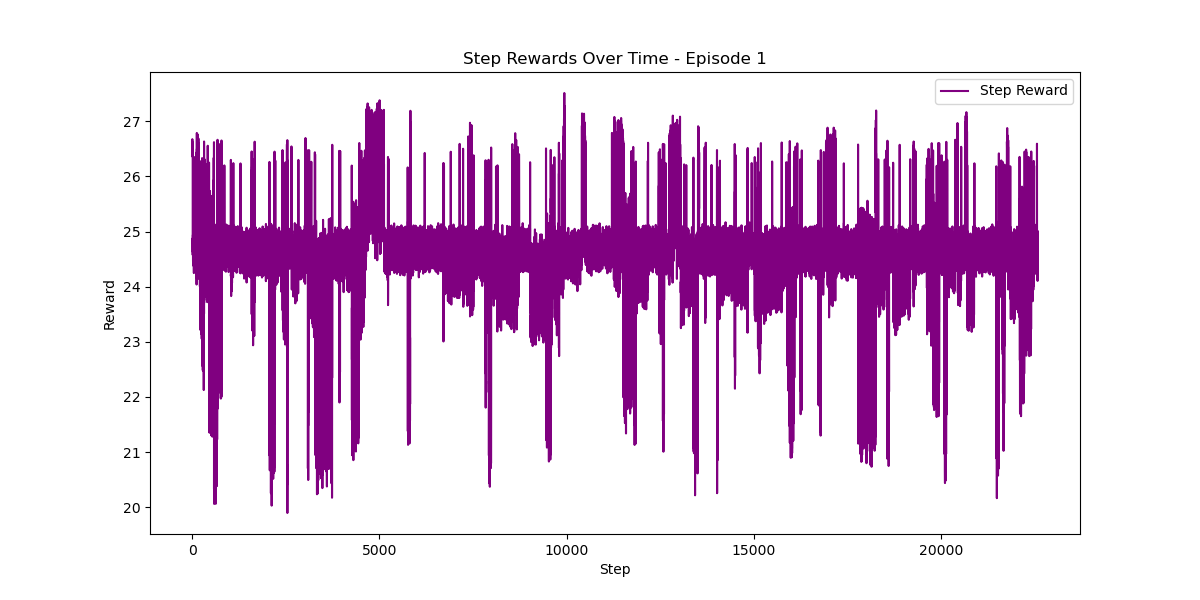
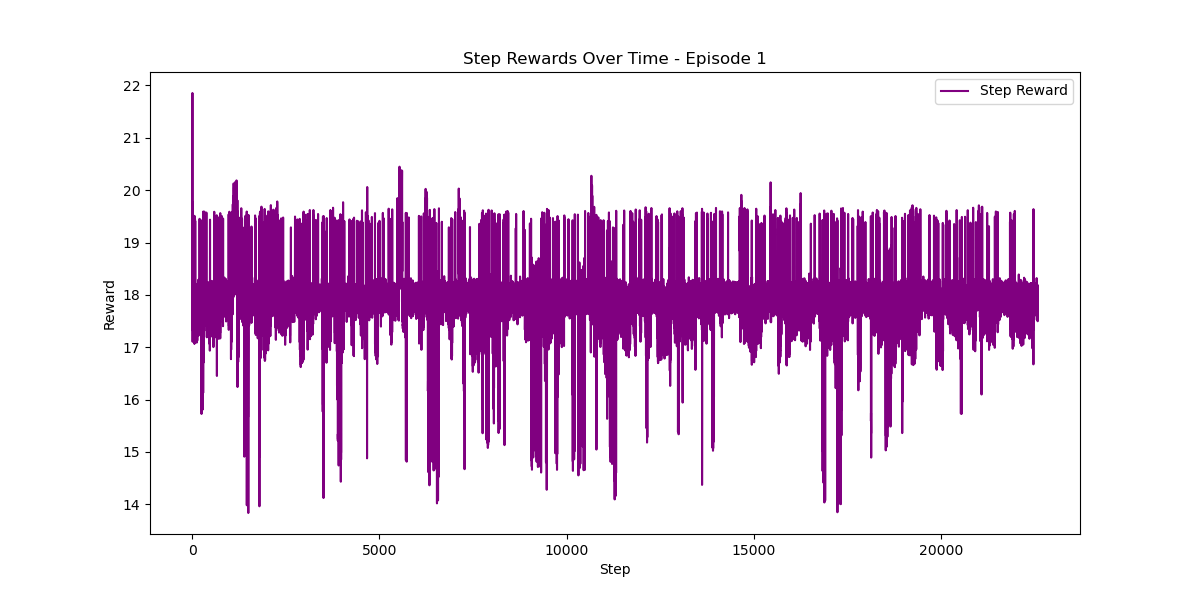
Further adjustments to algorithm

diff --git a/environment/env_continuous.py b/environment/env_continuous.py
@@ -9,7 +9,7 @@ class ContinuousMarketEnv(BaseMarketEnv):
     def __init__(self, data, reward_type='default'):
         super(ContinuousMarketEnv, self).__init__(data)
         # Adjust action space to include trade size (units) in addition to price adjustments
-        self.action_space = spaces.Box(low=np.array([-1, -50]), high=np.array([1, 50]), dtype=np.float32)
+        self.action_space = spaces.Box(low=np.array([-1, -10]), high=np.array([1, 10]), dtype=np.float32)
         self.inventory = 0 # Inventory for the agent
         self.cash = 5000 # Cash for the agent
         self.trades = [] # List to store executed trades
@@ -53,6 +53,7 @@ class ContinuousMarketEnv(BaseMarketEnv):
         # Limit trade size based on available liquidity 
         max_trade_size = min(ask_size, bid_size)
         trade_size = np.clip(trade_size * max_trade_size, -ask_size, bid_size)
+        #trade_size = np.clip(trade_size * max_trade_size * (self.cash / (self.cash + abs(self.inventory))), -ask_size, bid_size)
 
         # Enhanced action-to-order mapping logic
         bid_adjustment = bid_adjustment * spread * 1.5
@@ -98,22 +99,14 @@ class ContinuousMarketEnv(BaseMarketEnv):
         # Calculate PnL based on current cash and inventory value
         pnl = self.cash + self.inventory * self.data.iloc[self.current_step]['Bid Price 0']
         
-        
-        # New metrics calculation
-        implementation_shortfall = self.implementation_shortfall()
-        order_flow_imbalance = self.order_flow_imbalance()
-        rsi = self.rsi()
-        mean_average_pricing = self.mean_average_pricing()
-
-
-        # New metrics calculation
-        implementation_shortfall = self.implementation_shortfall()
-        order_flow_imbalance = self.order_flow_imbalance()
-        rsi = self.rsi()
-        mean_average_pricing = self.mean_average_pricing()
+        # Smoothing PnL changes over the last few steps (to avoid sharp fluctuations)
+        if len(self.past_pnls) > 10:
+            smoothed_pnl = np.mean(self.past_pnls[-10:])
+        else:
+            smoothed_pnl = pnl
 
         if self.reward_type == 'default':
-            reward = self._default_reward(pnl, action_taken, midpoint, spread, vwap, osi, rv)
+            reward = self._default_reward(smoothed_pnl, action_taken, midpoint, spread, vwap, osi, rv)
         elif self.reward_type == 'asymmetrical':
             reward = self._asymmetrical_reward(pnl, action_taken)
         elif self.reward_type == 'realized_pnl':
@@ -140,7 +133,6 @@ class ContinuousMarketEnv(BaseMarketEnv):
 
         # Execution quality reward/penalty based on how close the executed price is to the midpoint
         execution_quality_reward = 0
-        trade_size = 0
         if self.trades:
             # Get the last trade details
             last_trade = self.trades[-1]
@@ -164,8 +156,20 @@ class ContinuousMarketEnv(BaseMarketEnv):
         # Add PnL as a small baseline reward
         pnl_baseline_reward = pnl * 0.005  # Reduced to lower volatility
 
-        # PnL change reward based on the difference from the previous PnL
-        pnl_change_reward = (pnl - self.past_pnls[-1]) * 0.01 if len(self.past_pnls) > 1 else 0
+        # Smoothed PnL change reward (reduces volatility)
+        if len(self.past_pnls) > 1:
+            pnl_change_reward = (pnl - self.past_pnls[-1]) * 0.005  # Smaller impact to smooth out fluctuations
+        else:
+            pnl_change_reward = 0
+
+        # Sharpe Ratio Penalty (Risk-Adjusted Reward)
+        sharpe_ratio = self.calculate_sharpe_ratio()
+        if sharpe_ratio < 0.5:
+            reward_adjustment = 0.9
+        elif sharpe_ratio > 1:
+            reward_adjustment = 1.1
+        else:
+            reward_adjustment = 1.0
 
         # Total reward is the sum of the components
         reward = (
@@ -186,12 +190,24 @@ class ContinuousMarketEnv(BaseMarketEnv):
             print(f"Execution Quality Reward: {execution_quality_reward}")
             print(f"Spread Capture Reward: {spread_capture_reward}")
             print(f"PnL Change Reward: {pnl_change_reward}")
-            print(f"OSI Reward: {osi_reward}")
             print(f"PnL Baseline Reward: {pnl_baseline_reward}")
             print(f"Total Step Reward: {reward}")
         """
+
+        reward *= reward_adjustment  # Adjust reward based on Sharpe Ratio
         
         return reward
+    
+    # The calculate_sharpe_ratio method calculates the Sharpe Ratio as a risk-adjusted performance metric.
+    def calculate_sharpe_ratio(self):
+        # Calculate Sharpe Ratio as a risk-adjusted performance metric
+        returns = np.diff(self.past_pnls)  # Daily returns
+        if len(returns) < 2:
+            return 0
+        avg_return = np.mean(returns)
+        return_volatility = np.std(returns)
+        sharpe_ratio = avg_return / return_volatility if return_volatility != 0 else 0
+        return sharpe_ratio
 
     # The _asymmetrical_reward method calculates the reward based on the Profit and Loss (PnL) and the action taken.
     def _asymmetrical_reward(self, pnl, action_taken):

diff --git a/network/network.py b/network/network.py
@@ -5,29 +5,38 @@ from keras import layers, models, regularizers
 # The create_cnn_policy_network function creates a convolutional neural network (CNN) policy network.
 # This will determine the actions to take based on the current state.
 def create_cnn_attention_policy_network(input_shape):
+    l2_reg = regularizers.l2(0.001)  # Set L2 regularization value (can be tuned)
+    
     model = models.Sequential()
-    model.add(layers.Conv1D(64, kernel_size=3, activation='relu', input_shape=input_shape, kernel_initializer='he_uniform'))
+    model.add(layers.Conv1D(64, kernel_size=3, input_shape=input_shape, kernel_initializer='he_uniform'))
+    model.add(layers.Activation(tf.nn.swish))  # Swish activation
     model.add(layers.MaxPooling1D(pool_size=2))
-    model.add(layers.Conv1D(128, kernel_size=3, activation='relu', kernel_initializer='he_uniform'))
+    model.add(layers.Conv1D(128, kernel_size=3, kernel_initializer='he_uniform'))
+    model.add(layers.Activation(tf.nn.swish))  # Swish activation
     model.add(layers.MaxPooling1D(pool_size=2))
     model.add(layers.Flatten())
-    model.add(layers.Dense(256, activation='relu', kernel_initializer='he_uniform'))
-    model.add(layers.Dense(128, activation='relu', kernel_initializer='he_uniform'))
-    model.add(layers.Dense(2, activation='tanh', kernel_initializer='he_uniform'))  # Output layer for actions
+    model.add(layers.Dense(256, activation='swish', kernel_initializer='he_uniform', kernel_regularizer=l2_reg))
+    model.add(layers.Dense(128, activation='swish', kernel_initializer='he_uniform', kernel_regularizer=l2_reg))
+    model.add(layers.Dense(2, activation='tanh', kernel_initializer='he_uniform'))  # Output layer for actions (no regularization needed)
     return model
+
 
 # The create_cnn_value_network function creates a CNN value network.
 # This will estimate the value of the current state.
 def create_cnn_attention_value_network(input_shape):
+    l2_reg = regularizers.l2(0.001)  # Set L2 regularization value (can be tuned)
+    
     model = models.Sequential()
-    model.add(layers.Conv1D(64, kernel_size=3, activation='relu', input_shape=input_shape))
+    model.add(layers.Conv1D(64, kernel_size=3, input_shape=input_shape, kernel_initializer='he_normal'))
+    model.add(layers.Activation(tf.nn.swish))  # Swish activation
     model.add(layers.MaxPooling1D(pool_size=2))
-    model.add(layers.Conv1D(128, kernel_size=3, activation='relu'))
+    model.add(layers.Conv1D(128, kernel_size=3, kernel_initializer='he_normal'))
+    model.add(layers.Activation(tf.nn.swish))  # Swish activation
     model.add(layers.MaxPooling1D(pool_size=2))
     model.add(layers.Flatten())
-    model.add(layers.Dense(256, activation='relu', kernel_initializer='he_normal'))
-    model.add(layers.Dense(128, activation='relu', kernel_initializer='he_normal'))
-    model.add(layers.Dense(1, activation='linear'))  # Single output for value estimation
+    model.add(layers.Dense(256, activation='swish', kernel_initializer='he_normal', kernel_regularizer=l2_reg))
+    model.add(layers.Dense(128, activation='swish', kernel_initializer='he_normal', kernel_regularizer=l2_reg))
+    model.add(layers.Dense(1, activation='linear'))  # Single output for value estimation (no regularization needed)
     return model
 
 def create_lstm_policy_network(input_shape, lstm_units=64, output_units=2):

diff --git a/agent/rl_agent.py b/agent/rl_agent.py
@@ -48,6 +48,7 @@ class PPOAgent:
             # Calculate advantage using the Generalized Advantage Estimation (GAE) method
             delta = reward + (1 - done) * self.gamma * next_value_pred - value_pred
             advantage = delta + self.gamma * self.lambda_ * (1 - done) * next_value_pred
+            #advantage = delta + self.lambda_ * (self.gamma * next_value_pred - value_pred) * (1 - done)
 
             # PPO objective function: Clipping the ratio to prevent large updates
             old_log_probs = tf.reduce_sum(action_pred * tf.stop_gradient(action), axis=1)
